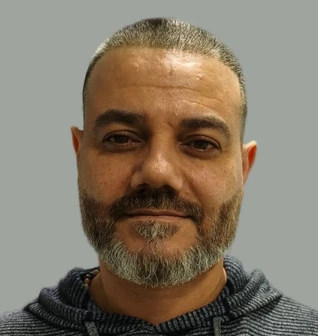
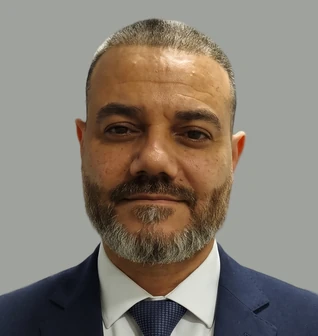
fix(site): retrato do gestor era a foto errada — vale a de terno
O commit anterior subiu a foto de moletom. A clínica esclareceu que a boa é
outra, do mesmo dia e do mesmo lugar, ele de terno e gravata — que é o que
combina com o card do gestor e com o retrato da Dra. Juliana ao lado.

Mesmo tratamento do anterior, só que sobre o original certo (1792x2400):
recorte de (338,383) a (1372,1476), cabeça ocupando 70% da altura do quadro e
8% de ar acima, reamostrado para 318x336 — a proporção exata do card, para o
object-cover não cortar nada.

O fundo continua achatado, agora em (160,162,157), a cor da parede medida nesta
foto. É a mesma parede, mas a luz mudou um pouco entre um clique e outro, e
reaproveitar o tom do arquivo anterior deixaria uma borda de tom errado.

diff --git a/src/lib/jp.ts b/src/lib/jp.ts
@@ -137,11 +137,11 @@ export const GESTOR = {
   /**
    * Retrato de uma pessoa que existe. Não trocar por imagem de gerador.
    *
-   * Foto enviada pela clínica em 09/09/2026, feita na própria clínica: 1200x1600,
-   * já em 3:4. Substituiu o recorte que vinha da peça de divulgação dele — aquele
-   * era corpo inteiro, sentado, e obrigava a desviar do texto da peça.
+   * Foto enviada pela clínica em 09/09/2026, feita na própria clínica, ele de
+   * terno: 1792x2400. Substituiu o recorte que vinha da peça de divulgação dele
+   * — aquele era corpo inteiro, sentado, e obrigava a desviar do texto da peça.
    *
-   * Recorte de (250,261) a (881,928) do original, reamostrado para 318x336.
+   * Recorte de (338,383) a (1372,1476) do original, reamostrado para 318x336.
    * As duas medidas do enquadramento saíram do retrato da Dra. Juliana, para os
    * dois cards do bloco ficarem na mesma escala: cabeça ocupando 70% da altura
    * do quadro e 8% de ar acima dela.
@@ -151,7 +151,7 @@ export const GESTOR = {
    * "de verdade" (0,75) teria a base comida pelo quadro e o enquadramento
    * medido aqui não seria o que aparece na tela.
    *
-   * O fundo foi achatado na cor da parede atrás dele, (159,164,158), medida na
+   * O fundo foi achatado na cor da parede atrás dele, (160,162,157), medida na
    * própria foto. Sem isso entravam no quadro um quadro de certificado no alto
    * à direita e um pictograma verde embaixo à esquerda — sujeira que o card da
    * Dra. Juliana, de fundo liso, não tem. Manter o tom da parede dele, e não um
